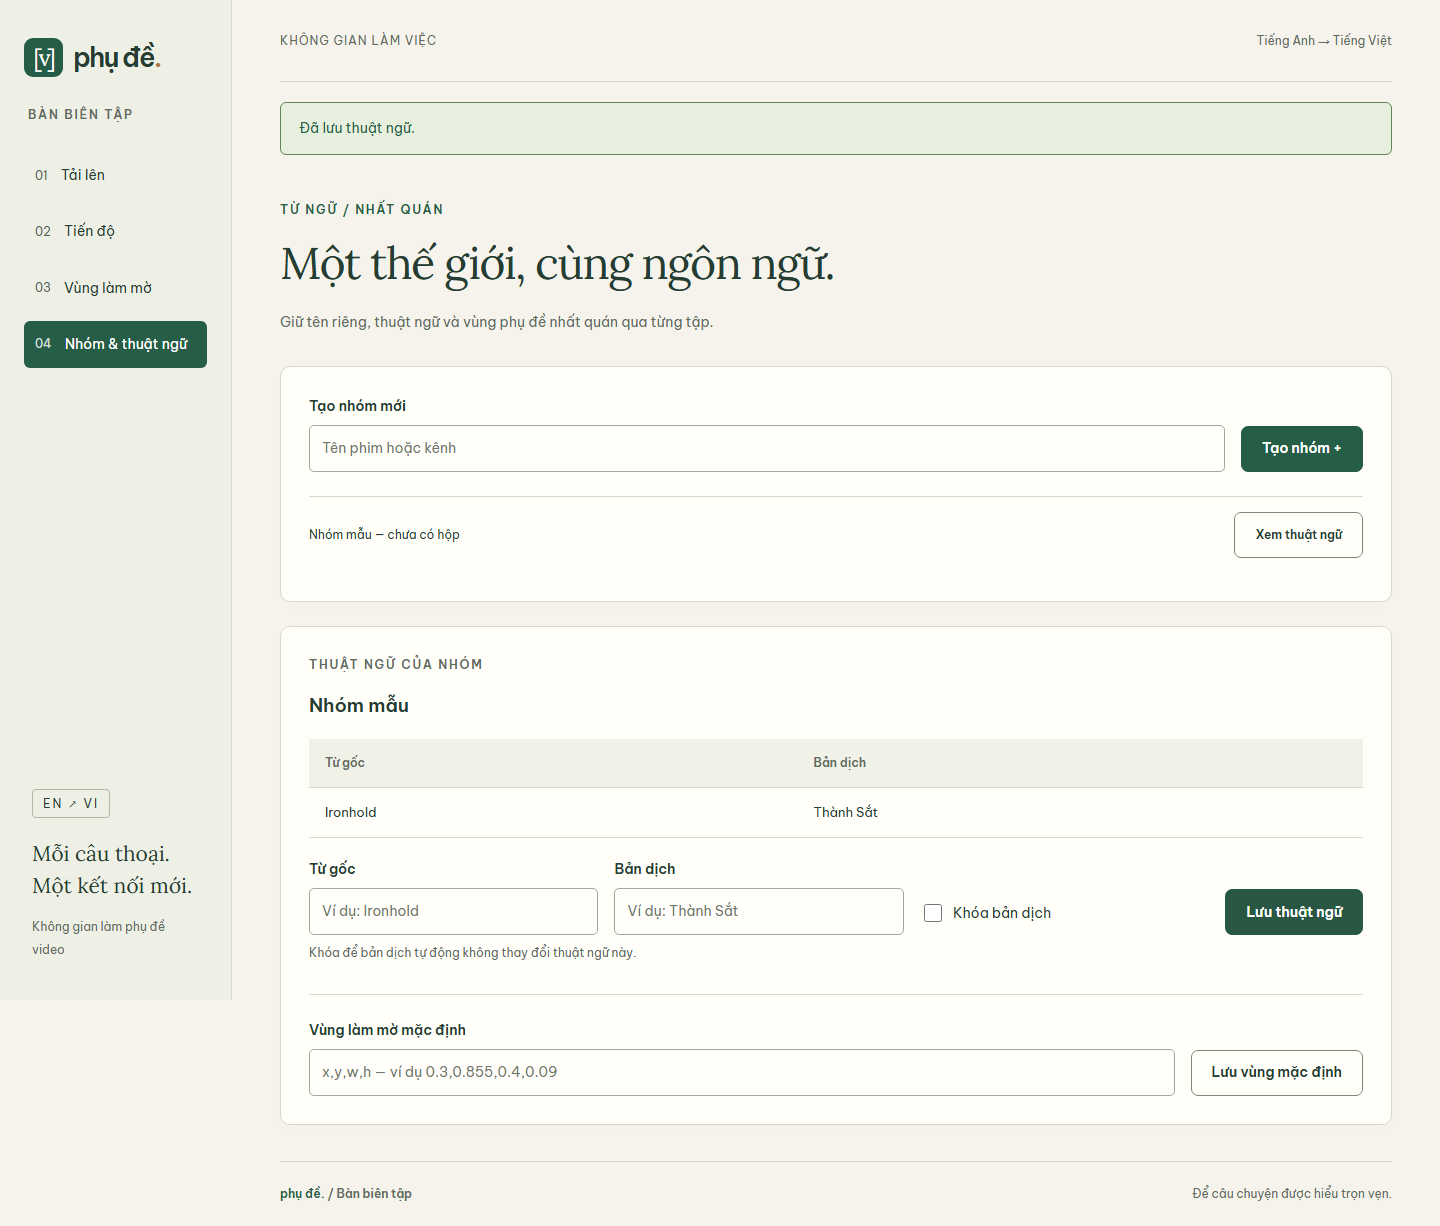
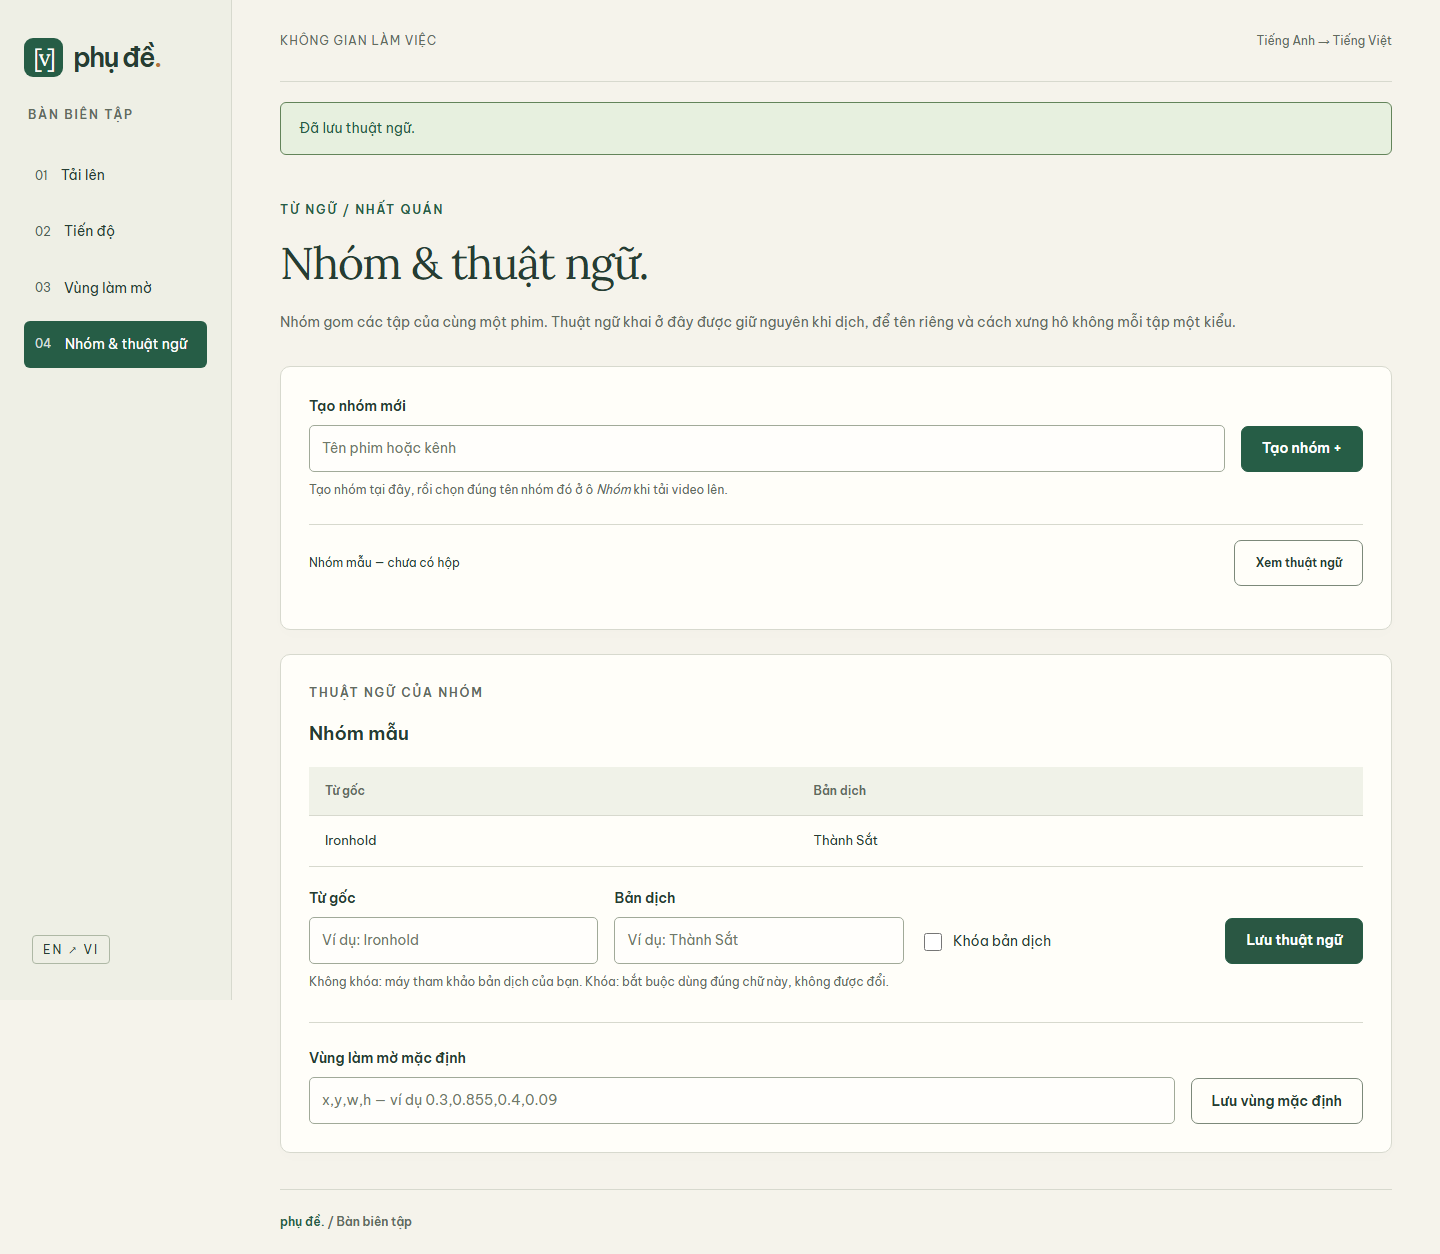
Tinh gian noi dung web, giai thich cong dung tung trang, chay duoc test frontend.cjs
- web/index.html: viet lai copy 4 section (Tai len, Tien do, Vung lam mo,
  Nhom & thuat ngu) cho ngan gon va giai thich ro cong dung + cach dung tai
  cho, thay vi van hoa my chi de trang tri. Style/CSS khong doi.
- web/app.js: them nut "Khoanh vung lam mo" tren man Tien do, chi hien khi
  cong viec dang cho_chon_khung — truoc do trang thai bao "cho ban khoanh
  vung" nhung khong co loi dan sang man #khung.
- test/frontend.cjs: sua theo thay doi HTML that su anh huong hanh vi test
  — hai widget <details class="advanced"> gio ton tai tren trang nen phai
  cho .advanced trong pham vi #form-tai-len; form ap dai cau nam trong
  <details> dong mac dinh nen phai mo truoc khi dien.
- them package.json/package-lock.json (playwright devDependency) va
  .gitignore node_modules/ de chay duoc `node test/frontend.cjs` dung nhu
  comment dau file mo ta, thay vi chi co the chay bang Playwright Python
  rieng. Da chay va PASS ca 3 cum test.
- docs/ketqua/*.png: anh chup lai do chinh test/frontend.cjs sinh ra.

Claude-Session: https://claude.ai/code/session_013nes8c2aK4RsDJ2PqJ5yEa

diff --git a/web/index.html b/web/index.html
@@ -7,47 +7,47 @@
   <a class="thuong-hieu" href="#tai-len" aria-label="Phụ đề Việt — Tải lên"><span class="bieu-trung" aria-hidden="true">[v]</span>phụ đề<span class="brand-dot">.</span></a>
   <p class="eyebrow">BÀN BIÊN TẬP</p>
   <nav aria-label="Điều hướng chính"><a href="#tai-len"><span aria-hidden="true">01</span>Tải lên</a><a href="#tien-do"><span aria-hidden="true">02</span>Tiến độ</a><a href="#khung"><span aria-hidden="true">03</span>Vùng làm mờ</a><a href="#nhom"><span aria-hidden="true">04</span>Nhóm &amp; thuật ngữ</a></nav>
-  <div class="sidebar-note"><span class="language-tag">EN ↗ VI</span><p>Mỗi câu thoại.<br>Một kết nối mới.</p><small>Không gian làm phụ đề video</small></div>
+  <div class="sidebar-note"><span class="language-tag">EN ↗ VI</span></div>
 </header>
 <main id="noi-dung" tabindex="-1">
   <div class="topline"><span>KHÔNG GIAN LÀM VIỆC</span><span>Tiếng Anh → Tiếng Việt</span></div>
   <h1 class="sr-only">Dịch phụ đề video Anh sang Việt</h1><p id="bao" role="status" aria-live="polite" hidden></p>
   <section id="tai-len" aria-labelledby="tieu-de-tai">
-    <div class="intro"><div><p class="eyebrow">TỪ LỜI THOẠI ĐẾN KẾT NỐI</p><h2 id="tieu-de-tai">Câu chuyện hay,<br><em>không còn khoảng cách.</em></h2><p class="lead">Thêm phụ đề tiếng Việt cho video của bạn.<br>Từ bản gốc đến bản dịch, trong một không gian.</p></div>
-      <figure class="scene-figure"><div id="scene" aria-hidden="true"><div class="scene-fallback"><div class="film-layer layer-back"></div><div class="film-layer layer-mid"></div><div class="film-layer layer-front"><span class="play-shape"></span><i></i><i></i></div></div></div><figcaption><span>Video · Lời thoại · Bản dịch</span><button id="scene-toggle" type="button" aria-pressed="false" hidden>Dừng chuyển động</button></figcaption></figure>
+    <div class="intro"><div><h2 id="tieu-de-tai">Phụ đề tiếng Việt<br><em>cho video của bạn.</em></h2><p class="lead">Tải video lên, nhận bản dịch.</p></div>
+      <figure class="scene-figure"><div id="scene" aria-hidden="true"><div class="scene-fallback"><div class="film-layer layer-back"></div><div class="film-layer layer-mid"></div><div class="film-layer layer-front"><span class="play-shape"></span><i></i><i></i></div></div></div><figcaption><button id="scene-toggle" type="button" aria-pressed="false" hidden>Dừng chuyển động</button></figcaption></figure>
     </div>
     <div class="workspace-grid">
       <form id="form-tai-len" class="paper" novalidate>
         <div class="section-heading"><h3>Thêm video của bạn</h3><span class="small-label">BƯỚC 01</span></div>
         <label id="drop-zone" class="drop-zone" for="video-file"><span class="upload-mark" aria-hidden="true">↑</span><strong>Kéo video vào đây</strong><span>hoặc chọn tệp từ thiết bị</span><span class="file-picker">Chọn video ↗</span><input id="video-file" type="file" name="file" accept=".mp4,.mkv,.mov,.webm,.avi,.ts" aria-describedby="file-help file-name" required><small id="file-help">MP4, MKV, MOV, WEBM, AVI, TS · Tối đa 4 GiB</small></label>
         <p id="file-name" class="file-name" aria-live="polite">Chưa chọn video.</p>
-        <label>Nhóm <small>Không bắt buộc</small><input name="nhom" placeholder="Tên phim, series hoặc kênh" list="nhom-goi-y"><datalist id="nhom-goi-y"></datalist></label><p class="field-note">Dùng chung thuật ngữ và vùng làm mờ cho các video cùng nhóm.</p>
+        <label>Nhóm <small>Không bắt buộc</small><input name="nhom" placeholder="Tên phim, series hoặc kênh" list="nhom-goi-y"><datalist id="nhom-goi-y"></datalist></label><p class="field-note">Dùng chung thuật ngữ và vùng làm mờ.</p>
         <details class="advanced"><summary>Tùy chọn nâng cao</summary><div class="hang"><label>Ngôn ngữ nguồn<input name="lang" value="en" required></label><label>Model nhận dạng<input name="model" value="large-v3" required></label><label>Hệ số cỡ chữ<input name="font_scale" type="number" step="0.01" min="0.01" value="0.42" required></label></div><label>Làm mờ phụ đề cứng<select name="blur"><option value="auto">Tự động — bật với video ngang</option><option value="on">Luôn bật — chọn vùng trước khi xuất</option><option value="off">Không làm mờ</option></select></label><label class="o"><input type="checkbox" name="separate">Tách giọng hát (cần Demucs)</label><label class="o"><input type="checkbox" name="force_asr">Bỏ phụ đề sẵn, nhận dạng lại bằng Whisper</label><label class="o"><input type="checkbox" name="force">Chạy lại mọi bước</label></details>
         <div class="form-footer"><span class="field-note" id="upload-note">Mỗi lần xử lý một video.</span><button class="primary" id="upload-submit" disabled>Bắt đầu ↗</button></div>
       </form>
-      <aside class="guide" aria-label="Quy trình dịch phụ đề"><p class="eyebrow">TỪ VIDEO ĐẾN BẢN DỊCH</p><h3>Ba bước,<br>một câu chuyện.</h3><ol class="steps"><li><span class="step-number">01</span><div><h4>Chọn video</h4><p>Thêm tệp và nhóm để giữ cách dịch nhất quán.</p></div></li><li><span class="step-number">02</span><div><h4>Theo dõi &amp; tinh chỉnh</h4><p>Xem tiến độ. Chọn vùng phụ đề cứng nếu cần làm mờ.</p></div></li><li><span class="step-number">03</span><div><h4>Tải bản hoàn thiện</h4><p>Nhận video có phụ đề tiếng Việt sau khi kết xuất.</p></div></li></ol><div class="guide-note"><span aria-hidden="true">[a → ă]</span><p>Một thuật ngữ nhất quán.<br>Một mạch phim liền lạc.</p><a href="#nhom">Quản lý thuật ngữ ↗</a></div></aside>
+      <aside class="guide" aria-label="Quy trình dịch phụ đề"><h3>Ba bước.</h3><ol class="steps"><li><span class="step-number">01</span><div><h4>Chọn video</h4><p>Thêm tệp và nhóm.</p></div></li><li><span class="step-number">02</span><div><h4>Theo dõi &amp; tinh chỉnh</h4><p>Xem tiến độ, chọn vùng làm mờ.</p></div></li><li><span class="step-number">03</span><div><h4>Tải bản hoàn thiện</h4><p>Nhận video có phụ đề tiếng Việt.</p></div></li></ol><div class="guide-note"><a href="#nhom">Quản lý thuật ngữ ↗</a></div></aside>
     </div>
   </section>
   <section id="tien-do" hidden aria-labelledby="tieu-de-tien-do">
-    <div class="page-heading"><p class="eyebrow">BƯỚC 02 / THEO DÕI</p><h2 id="tieu-de-tien-do">Bản dịch đang thành hình.</h2><p class="lead">Mọi bước xử lý, ngay tại đây.</p></div>
-    <div class="paper progress-paper"><p class="small-label">VIDEO HIỆN TẠI</p><h3 id="video-name">Chưa có video</h3><p id="viec-id" class="mo"></p><div class="progress-heading"><p id="viec-trang-thai" role="status">Chưa có công việc nào.</p><span id="progress-label">—</span></div><div class="thanh" role="progressbar" aria-label="Tiến độ xử lý video" aria-valuemin="0" aria-valuemax="100" aria-valuenow="0"><div id="thanh-chay"></div></div><p id="connection-status" role="status" class="mo"></p><button id="poll-retry" type="button" hidden>Kiểm tra kết nối lại</button><p class="field-note">Tiến độ được cập nhật theo trạng thái thực tế của công việc.</p><a id="tai-ket-qua" class="button primary" href="#" hidden download>Tải video kết quả ↓</a><a class="text-link" href="#tai-len">Về màn tải lên</a></div>
+    <div class="page-heading"><p class="eyebrow">BƯỚC 02 / THEO DÕI</p><h2 id="tieu-de-tien-do">Tiến độ xử lý.</h2><p class="lead">Video đi qua bốn bước: nhận dạng lời thoại → khoanh vùng làm mờ → dịch → kết xuất. Trang này cho biết đang ở bước nào và giữ liên kết tải bản hoàn thiện.</p></div>
+    <div class="paper progress-paper"><p class="small-label">VIDEO HIỆN TẠI</p><h3 id="video-name">Chưa có video</h3><p id="viec-id" class="mo"></p><div class="progress-heading"><p id="viec-trang-thai" role="status">Chưa có công việc nào.</p><span id="progress-label">—</span></div><div class="thanh" role="progressbar" aria-label="Tiến độ xử lý video" aria-valuemin="0" aria-valuemax="100" aria-valuenow="0"><div id="thanh-chay"></div></div><p id="connection-status" role="status" class="mo"></p><button id="poll-retry" type="button" hidden>Kiểm tra kết nối lại</button><p class="field-note">Cứ để trang này mở, trạng thái tự cập nhật. Riêng bước khoanh vùng cần bạn làm tay: khi đến lượt, nút bên dưới sẽ hiện ra.</p><a id="sang-khung" class="button primary" href="#khung" hidden>Khoanh vùng làm mờ ↗</a><a id="tai-ket-qua" class="button primary" href="#" hidden download>Tải video kết quả ↓</a><a class="text-link" href="#tai-len">Về màn tải lên</a></div>
   </section>
   <section id="khung" hidden aria-labelledby="tieu-de-khung">
-    <div class="page-heading"><p class="eyebrow">TINH CHỈNH / PHỤ ĐỀ CỨNG</p><h2 id="tieu-de-khung">Chọn vùng, giữ trọn khung hình.</h2><p class="lead">Kéo để khoanh vùng phụ đề cũ. Kiểm tra qua các ảnh để bao trọn cả câu hai dòng.</p></div>
-    <div class="paper"><p id="khung-empty" class="mo">Chưa có khung mẫu. Hãy tải video và chờ đến bước chọn vùng.</p><p id="image-status" role="status"></p><div class="dieu-khien"><button id="khung-lui" type="button" aria-label="Khung trước" disabled>←</button><span id="khung-nhan">Chưa có ảnh mẫu</span><button id="khung-toi" type="button" aria-label="Khung sau" disabled>→</button></div><div class="frame-stage"><div id="khung-boc" hidden><img id="khung-anh" alt="Khung hình mẫu để chọn vùng phụ đề"><canvas id="khung-canvas" aria-label="Vẽ vùng làm mờ; có thể nhập tọa độ trong form bên dưới"></canvas></div></div><div id="khung-thumbnails" class="thumbnails" aria-label="Các khung hình mẫu"></div>
-      <form id="form-toa-do"><fieldset id="toa-do-fields" disabled><legend>Nhập vùng bằng tọa độ <small>(từ 0 đến 1)</small></legend><div class="hang coordinates"><label>Trái (x)<input name="x" type="number" min="0" max="0.9999" step="any" required></label><label>Trên (y)<input name="y" type="number" min="0" max="0.9999" step="any" required></label><label>Rộng (w)<input name="w" type="number" min="0.0001" max="1" step="any" required></label><label>Cao (h)<input name="h" type="number" min="0.0001" max="1" step="any" required></label><button type="submit">Áp dụng vùng</button></div></fieldset></form>
+    <div class="page-heading"><p class="eyebrow">TINH CHỈNH / PHỤ ĐỀ CỨNG</p><h2 id="tieu-de-khung">Chọn vùng làm mờ.</h2><p class="lead">Video gốc có sẵn phụ đề tiếng Anh in cứng vào hình. Làm mờ vùng đó để phụ đề tiếng Việt không chồng lên chữ cũ.</p></div>
+    <div class="paper"><ol class="field-note"><li><strong>Kéo chuột trên ảnh</strong> để khoanh lên dòng chữ tiếng Anh — kéo cạnh hoặc góc để chỉnh, kéo giữa để dời.</li><li><strong>Lật qua vài ảnh</strong> bằng ← → xem vùng có bao trọn cả câu hai dòng không; vùng vẽ giữ nguyên khi đổi ảnh.</li><li><strong>Bấm “Xong, kết xuất”</strong> để ghi lại video với vùng đã làm mờ và phụ đề tiếng Việt.</li></ol><p id="khung-empty" class="mo">Chưa có khung mẫu. Hãy tải video và chờ đến bước chọn vùng.</p><p id="image-status" role="status"></p><div class="dieu-khien"><button id="khung-lui" type="button" aria-label="Khung trước" disabled>←</button><span id="khung-nhan">Chưa có ảnh mẫu</span><button id="khung-toi" type="button" aria-label="Khung sau" disabled>→</button></div><div class="frame-stage"><div id="khung-boc" hidden><img id="khung-anh" alt="Khung hình mẫu để chọn vùng phụ đề"><canvas id="khung-canvas" aria-label="Vẽ vùng làm mờ; có thể nhập tọa độ trong form bên dưới"></canvas></div></div><div id="khung-thumbnails" class="thumbnails" aria-label="Các khung hình mẫu"></div>
+      <form id="form-toa-do"><fieldset id="toa-do-fields" disabled><legend>Nhập vùng bằng tọa độ <small>(tùy chọn)</small></legend><p class="field-note">Chỉ dùng khi cần con số chính xác; bình thường kéo chuột trên ảnh là đủ. Mỗi số từ 0 đến 1, theo tỉ lệ chiều rộng và chiều cao khung hình.</p><div class="hang coordinates"><label>Trái (x)<input name="x" type="number" min="0" max="0.9999" step="any" required></label><label>Trên (y)<input name="y" type="number" min="0" max="0.9999" step="any" required></label><label>Rộng (w)<input name="w" type="number" min="0.0001" max="1" step="any" required></label><label>Cao (h)<input name="h" type="number" min="0.0001" max="1" step="any" required></label><button type="submit">Áp dụng vùng</button></div></fieldset></form>
       <p id="khung-hop" class="mo" role="status">Chưa vẽ hộp nào.</p>
       <fieldset id="pham-vi-fields" disabled class="pham-vi"><legend>Vùng đang vẽ áp cho</legend><div class="hang"><label class="o"><input type="radio" name="pham_vi" value="chung" checked>Mọi câu thoại</label><label class="o"><input type="radio" name="pham_vi" value="rieng">Riêng câu đang xem</label></div><p id="pham-vi-note" class="field-note" role="status">Mọi câu chưa có vùng riêng đều dùng vùng này.</p></fieldset>
-      <form id="form-day"><fieldset id="day-fields" disabled><legend>Áp vùng đang vẽ cho một dải câu</legend><div class="hang coordinates"><label>Từ câu<input name="tu" type="number" min="1" step="1" required></label><label>Đến câu<input name="den" type="number" min="1" step="1" required></label><button type="submit">Áp cho dải câu</button></div><p class="field-note">Dùng khi phụ đề cứng nhảy chỗ trong một cảnh: chọn <em>Riêng câu đang xem</em>, vẽ vùng mới, rồi áp cho cả dải. Vùng chung của các câu khác không đổi.</p></fieldset></form>
-      <div class="form-footer"><div><p class="field-note">Kéo để vẽ. Kéo cạnh hoặc góc để chỉnh, kéo giữa hộp để dời. Vùng chọn giữ nguyên khi đổi ảnh.</p><label class="o"><input type="checkbox" id="hop-luu-nhom" disabled>Đặt làm vùng mặc định cho nhóm</label></div><div class="actions"><button id="hop-bo" type="button" disabled>Bỏ qua làm mờ</button><button id="hop-gui" class="primary" type="button" disabled>Xong, kết xuất ↗</button></div></div>
+      <details class="advanced"><summary>Phụ đề cứng nhảy chỗ giữa phim?</summary><form id="form-day"><fieldset id="day-fields" disabled><legend>Áp vùng đang vẽ cho một dải câu</legend><div class="hang coordinates"><label>Từ câu<input name="tu" type="number" min="1" step="1" required></label><label>Đến câu<input name="den" type="number" min="1" step="1" required></label><button type="submit">Áp cho dải câu</button></div><p class="field-note">Chọn <em>Riêng câu đang xem</em>, vẽ vùng mới ở chỗ phụ đề chuyển tới, rồi áp cho dải câu đó. Vùng chung của các câu khác không đổi.</p></fieldset></form></details>
+      <div class="form-footer"><div><label class="o"><input type="checkbox" id="hop-luu-nhom" disabled>Đặt làm vùng mặc định cho nhóm</label><p class="field-note">Các video sau cùng nhóm sẽ tự điền vùng này.</p></div><div class="actions"><button id="hop-bo" type="button" disabled>Bỏ qua làm mờ</button><button id="hop-gui" class="primary" type="button" disabled>Xong, kết xuất ↗</button></div></div>
     </div>
   </section>
   <section id="nhom" hidden aria-labelledby="tieu-de-nhom">
-    <div class="page-heading"><p class="eyebrow">TỪ NGỮ / NHẤT QUÁN</p><h2 id="tieu-de-nhom">Một thế giới, cùng ngôn ngữ.</h2><p class="lead">Giữ tên riêng, thuật ngữ và vùng phụ đề nhất quán qua từng tập.</p></div>
-    <div class="paper"><form id="form-nhom" class="hang"><label>Tạo nhóm mới<input name="ten" placeholder="Tên phim hoặc kênh" required></label><button class="primary">Tạo nhóm +</button></form><ul id="nhom-ds" aria-live="polite"></ul></div>
-    <div id="nhom-chi-tiet" class="paper glossary" hidden><p class="small-label">THUẬT NGỮ CỦA NHÓM</p><h3 id="nhom-ten"></h3><div class="table-wrap" tabindex="0" role="region" aria-label="Bảng thuật ngữ"><table id="bang-thuat-ngu"><thead><tr><th scope="col">Từ gốc</th><th scope="col">Bản dịch</th></tr></thead><tbody></tbody></table></div><form id="form-thuat-ngu" class="hang"><label>Từ gốc<input name="goc" placeholder="Ví dụ: Ironhold" required></label><label>Bản dịch<input name="dich" placeholder="Ví dụ: Thành Sắt" required></label><label class="o"><input type="checkbox" name="khoa">Khóa bản dịch</label><button class="primary">Lưu thuật ngữ</button></form><p class="field-note">Khóa để bản dịch tự động không thay đổi thuật ngữ này.</p><form id="form-hop-nhom" class="hang default-box"><label>Vùng làm mờ mặc định<input name="hop" placeholder="x,y,w,h — ví dụ 0.3,0.855,0.4,0.09" required></label><button>Lưu vùng mặc định</button></form></div>
+    <div class="page-heading"><p class="eyebrow">TỪ NGỮ / NHẤT QUÁN</p><h2 id="tieu-de-nhom">Nhóm &amp; thuật ngữ.</h2><p class="lead">Nhóm gom các tập của cùng một phim. Thuật ngữ khai ở đây được giữ nguyên khi dịch, để tên riêng và cách xưng hô không mỗi tập một kiểu.</p></div>
+    <div class="paper"><form id="form-nhom" class="hang"><label>Tạo nhóm mới<input name="ten" placeholder="Tên phim hoặc kênh" required></label><button class="primary">Tạo nhóm +</button></form><p class="field-note">Tạo nhóm tại đây, rồi chọn đúng tên nhóm đó ở ô <em>Nhóm</em> khi tải video lên.</p><ul id="nhom-ds" aria-live="polite"></ul></div>
+    <div id="nhom-chi-tiet" class="paper glossary" hidden><p class="small-label">THUẬT NGỮ CỦA NHÓM</p><h3 id="nhom-ten"></h3><div class="table-wrap" tabindex="0" role="region" aria-label="Bảng thuật ngữ"><table id="bang-thuat-ngu"><thead><tr><th scope="col">Từ gốc</th><th scope="col">Bản dịch</th></tr></thead><tbody></tbody></table></div><form id="form-thuat-ngu" class="hang"><label>Từ gốc<input name="goc" placeholder="Ví dụ: Ironhold" required></label><label>Bản dịch<input name="dich" placeholder="Ví dụ: Thành Sắt" required></label><label class="o"><input type="checkbox" name="khoa">Khóa bản dịch</label><button class="primary">Lưu thuật ngữ</button></form><p class="field-note">Không khóa: máy tham khảo bản dịch của bạn. Khóa: bắt buộc dùng đúng chữ này, không được đổi.</p><form id="form-hop-nhom" class="hang default-box"><label>Vùng làm mờ mặc định<input name="hop" placeholder="x,y,w,h — ví dụ 0.3,0.855,0.4,0.09" required></label><button>Lưu vùng mặc định</button></form></div>
   </section>
-  <footer class="page-footer"><span>phụ đề. <span class="mo">/ Bàn biên tập</span></span><span>Để câu chuyện được hiểu trọn vẹn.</span></footer>
+  <footer class="page-footer"><span>phụ đề. <span class="mo">/ Bàn biên tập</span></span></footer>
 </main>
 <script src="app.js"></script>
 </body></html>

diff --git a/web/app.js b/web/app.js
@@ -28,6 +28,7 @@ function cap_nhat_ui() {
   $("video-file").disabled = dang_gui || dang_xu_ly;
   $("upload-note").textContent = dang_xu_ly ? "Công việc hiện tại chưa hoàn tất. Xem màn Tiến độ." : "Mỗi lần xử lý một video.";
   scene?.setBusy(dang_gui || dang_xu_ly);
+  $("sang-khung").hidden = !cho_hop;          // man tien do khong co loi sang man ve hop
 }
 
 function bao(text, ok = false) {
